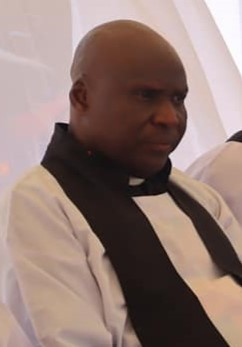
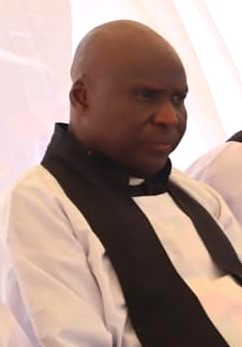
updates

diff --git a/donate.html b/donate.html
@@ -421,6 +421,42 @@ crossorigin="anonymous"></script>
   margin: 2em 0;
 }
 </style>
+<style>
+#donate-section {
+  background: #f9fbff;
+  border-radius: 10px;
+  padding: 20px;
+  width: 90%;
+  max-width: 500px;
+  margin: 0 auto;
+  box-shadow: 0 4px 8px rgba(45, 45, 46, 0.1);
+}
+#donate-section form {
+  display: flex;
+  flex-direction: column;
+}
+#donate-section label {
+  margin-top: 10px;
+  font-weight: bold;
+}
+#donate-section input {
+  padding: 10px;
+  border-radius: 6px;
+  border: 1px solid #ccc;
+}
+#donate-section button {
+  margin-top: 15px;
+  padding: 10px;
+  background: rgb(171, 3, 3);
+  color: white;
+  border: none;
+  border-radius: 6px;
+  cursor: pointer;
+}
+#donate-section button:hover {
+  background: #97030b;
+}
+</style>
 
 </head>
 <script>
@@ -507,7 +543,25 @@ menuToggle.addEventListener("click", () => {
 <section class="hero" style="background-image:url('/assets/images/hero-sm.jpg')">
   <div class="hero-inner"><h1>DONATE</h1></div>
 </section>
+
 <main class='wrap section'><p>Support our ministries via local giving options. Contact church treasurer for details.</p></main>
+<section id="donate-section">
+  <h2>Make a Donation</h2>
+
+  <form id="donationForm">
+    <label>Enter Code (Diocese / Pastorate / Church):</label>
+    <input type="text" id="code" name="code" required placeholder="e.g., 010101">
+
+    <label>Detected Name:</label>
+    <input type="text" id="detectedName" readonly placeholder="Name will appear here">
+
+    <label>Donation Amount (KES):</label>
+    <input type="number" id="amount" name="amount" required placeholder="e.g., 500">
+
+    <button type="button" id="lookupBtn">Check Code</button>
+    <button type="submit" id="payBtn" disabled>Proceed to Pay</button>
+  </form>
+</section>
 
 <section id="calendar-clock" class="calendar-section">
   <h2 id="month-year"></h2>
@@ -686,6 +740,48 @@ updateClock();
     const cleanURL = window.location.pathname.replace(".html", "");
     window.history.replaceState({}, "", cleanURL);
   }
+</script>
+
+<script>
+const API_URL = "https://script.google.com/macros/s/AKfycbxqfnhCVeodu6i82r8cifl2Xqt0GHhojPljsBVbaY5tBx8pHjM4T9YmzYiVitF3nsXf/exec"; // Replace with your Google Apps Script Web App URL
+
+document.getElementById("lookupBtn").addEventListener("click", async () => {
+  const code = document.getElementById("code").value.trim();
+  if (!code) return alert("Please enter a code.");
+
+  try {
+    const res = await fetch(`${API_URL}?code=${code}`);
+    const info = await res.json();
+
+    if (info && info.name) {
+      document.getElementById("detectedName").value = `${info.type}: ${info.name}`;
+      document.getElementById("payBtn").disabled = false;
+      alert(`${info.type} detected: ${info.name}`);
+    } else {
+      alert("Code not found. Please check the code and try again.");
+    }
+  } catch (err) {
+    alert("Error connecting to server. Please try again later.");
+  }
+});
+
+// Confirm before payment
+document.getElementById("donationForm").addEventListener("submit", (e) => {
+  e.preventDefault();
+  const name = document.getElementById("detectedName").value;
+  const amount = document.getElementById("amount").value;
+
+  if (!name || !amount) {
+    alert("Please check the code and enter the amount.");
+    return;
+  }
+
+  const confirmPay = confirm(`Confirm payment of KES ${amount} to ${name}?`);
+  if (confirmPay) {
+    // TODO: integrate with Pesapal or M-Pesa API
+    alert("Payment processing... (Integrate Pesapal next)");
+  }
+});
 </script>
 
 </body></html>

diff --git a/diocese.html b/diocese.html
@@ -1009,7 +1009,7 @@ th, td { border: 1px solid #ccc; padding: 5px 10px; text-align: left; }
 <div class="panel">
   <div class="info">
     <img src="assets/images/logo.png" alt="Bishop Ruwe Diocese" onclick="enlargeImage(this)">
-    <div><h3>Rt. Rev. John Ochieng</h3><p>Pastorates: Ruwe, Mbaga, Buholo, Bunyanja, Masiro</p></div>
+    <div><h3>Rt. Rev. Charles Odhiambo</h3><p>Pastorates: Ruwe, Mbaga, Buholo, Bunyanja, Masiro</p></div>
   </div>
 
   <button class="sub-toggle">RUWE PASTORATE — CODE 0101</button>
@@ -1309,7 +1309,7 @@ th, td { border: 1px solid #ccc; padding: 5px 10px; text-align: left; }
   <tr><td>Karapul</td><td>020402</td></tr></table></div></div></div>
 
   <button class="sub-toggle">KARAPUL PASTORATE — CODE 0205</button>
-  <<div class="sub-panel">
+  <div class="sub-panel">
   <div class="pastorate">
     
     <!-- Leader Photos -->
@@ -2760,7 +2760,7 @@ th, td { border: 1px solid #ccc; padding: 5px 10px; text-align: left; }
 <button class="toggle">12 — KISII-NAIROBI DIOCESE</button>
 <div class="panel">
   <div class="info"><img src="assets/images/logo.png" alt="Bishop Kisii-Nairobi Diocese" onclick="enlargeImage(this)">
-    <div><h3>Rt. Rev. Joseph Nyamweya</h3><p>Pastorates: Kisii Town, Kerina, Nairobi, Nairobi Central, Nyamage, St Alfayo Arambe, Nyambija</p></div>
+    <div><h3>Rt. Rev. Charles Ondoro</h3><p>Pastorates: Kisii Town, Kerina, Nairobi, Nairobi Central, Nyamage, St Alfayo Arambe, Nyambija</p></div>
   </div>
 
   <button class="sub-toggle">KISII TOWN PASTORATE — CODE 1201</button>
@@ -2772,7 +2772,7 @@ th, td { border: 1px solid #ccc; padding: 5px 10px; text-align: left; }
       <!-- Pastor -->
       <div class="leader">
         <img src="assets/images/abok.jpg" alt="Rev. Felix Morara" onclick="enlargeImage(this)">
-        <p><strong>Pastor Maurice Okello Abok</strong><br>Pastor in Charge</p>
+        <p><strong>Rev. Maurice Okello Abok</strong><br>Pastor in Charge</p>
       </div>
 
       <!-- Woman Leader -->

diff --git a/index.html b/index.html
@@ -138,7 +138,7 @@
       grid-template-columns: 280px 1fr;
       gap: 18px;
       align-items: center;
-      box-shadow: 0 6px 18px rgba(12,12,12,0.03);
+      box-shadow: 0 6px 18px rgba(74, 74, 74, 0.03);
       margin-bottom: 20px;
       animation: fadeIn 2s ease-in;
     }
@@ -517,10 +517,10 @@ menuToggle.addEventListener("click", () => {
     <section class="hero" aria-labelledby="archbishop-heading">
       <div class="archbishop-photo" role="img" aria-label="Photo of Archbishop Rev. Daniel Were Ohola"></div>
       <div>
-        <h1 id="archbishop-heading">Archbishop Rev. Daniel Were Ohola</h1>
-        <div class="sub">Spiritual Leader of Ruwe Holy Ghost Church of East Africa- West Arch Diocese</div>
+        <h1 id="archbishop-heading">Archbishop Most Rev. Daniel Were Ohola</h1>
+        <div class="sub">Spiritual Leader of Ruwe Holy Ghost Church of East Africa </div>
         <p class="muted">
-          Archbishop Rev. Daniel Were Ohola serves as the spiritual head of Ruwe Holy Ghost Church. His ministry focuses on unity, empowerment, and faith renewal across all dioceses.
+          Archbishop Most Rev. Daniel Were Ohola serves as the spiritual head of Ruwe Holy Ghost Church of East Africa. His ministry focuses on unity, empowerment, and faith renewal across all dioceses.
           Through his leadership, the church continues to expand its reach and strengthen its role in transforming lives through the power of the Holy Spirit.
         </p>
         <a class="read-more" href="archbishop.html">Read More</a>

diff --git a/contact.html b/contact.html
@@ -641,7 +641,8 @@ menuToggle.addEventListener("click", () => {
   <section class="contact-info">
     <p>
       <strong>Headquarters:</strong> Ruwe, Siaya County<br>
-      <strong>Phone:</strong> +254 722 577 270/+254 717 951 458<br>
+      <strong>Phone:</strong> +254 722 577 270<br>
+      <strong>Phone:</strong> +254 717 951 458<br>
       <strong>Email:</strong> info@ruhwehgcea.com
     </p>
   </section>
